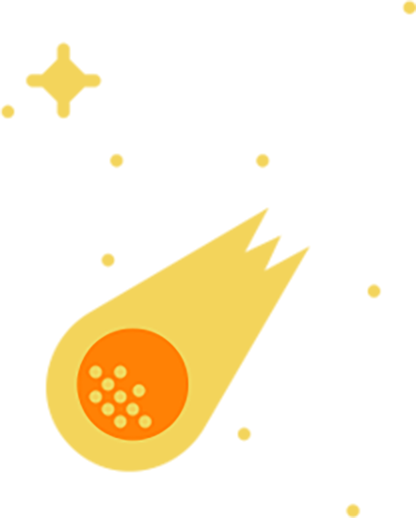
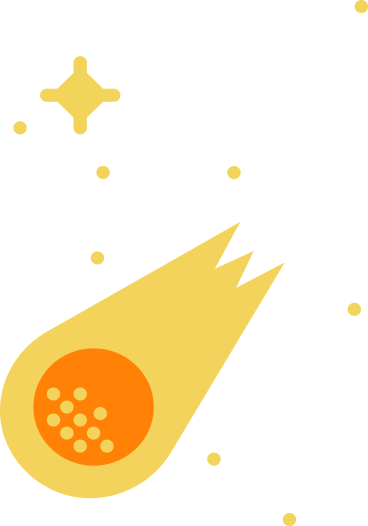
Update meteor image

diff --git a/scss/pages/_index.scss b/scss/pages/_index.scss
@@ -56,7 +56,7 @@ $module: "index";
     &__background {
         img:first-child {
             position: absolute;
-            max-width: 228px;
+            max-width: 204px;
             right: 58px;
             bottom: 180px;
         }
